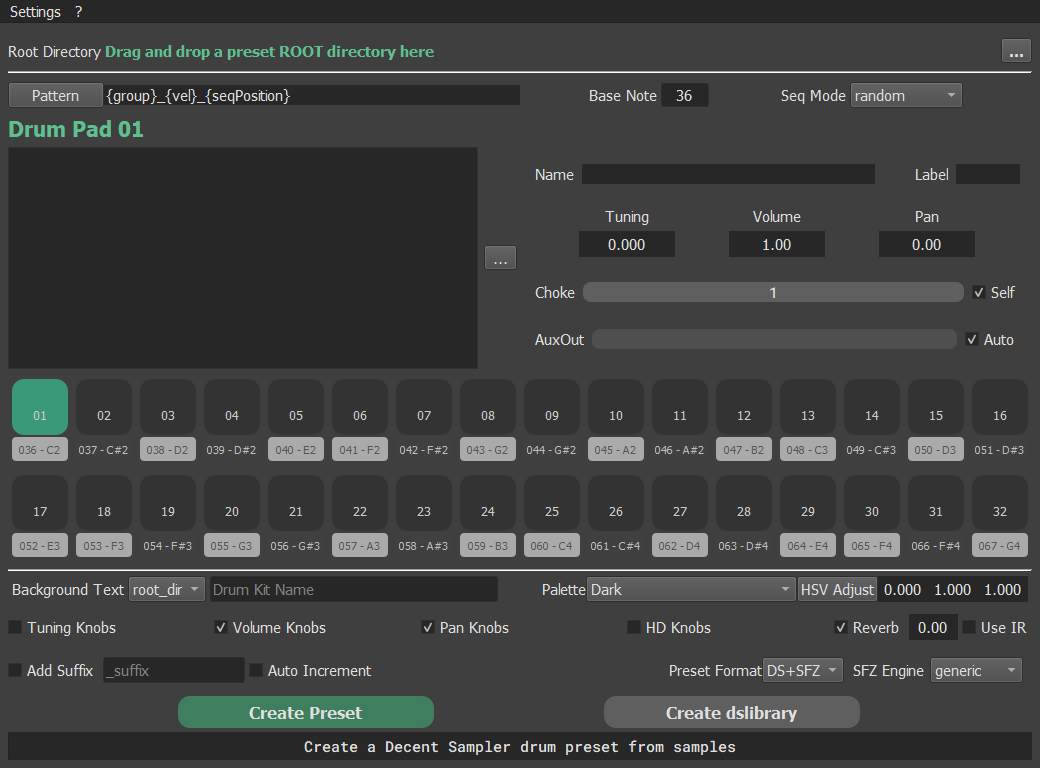
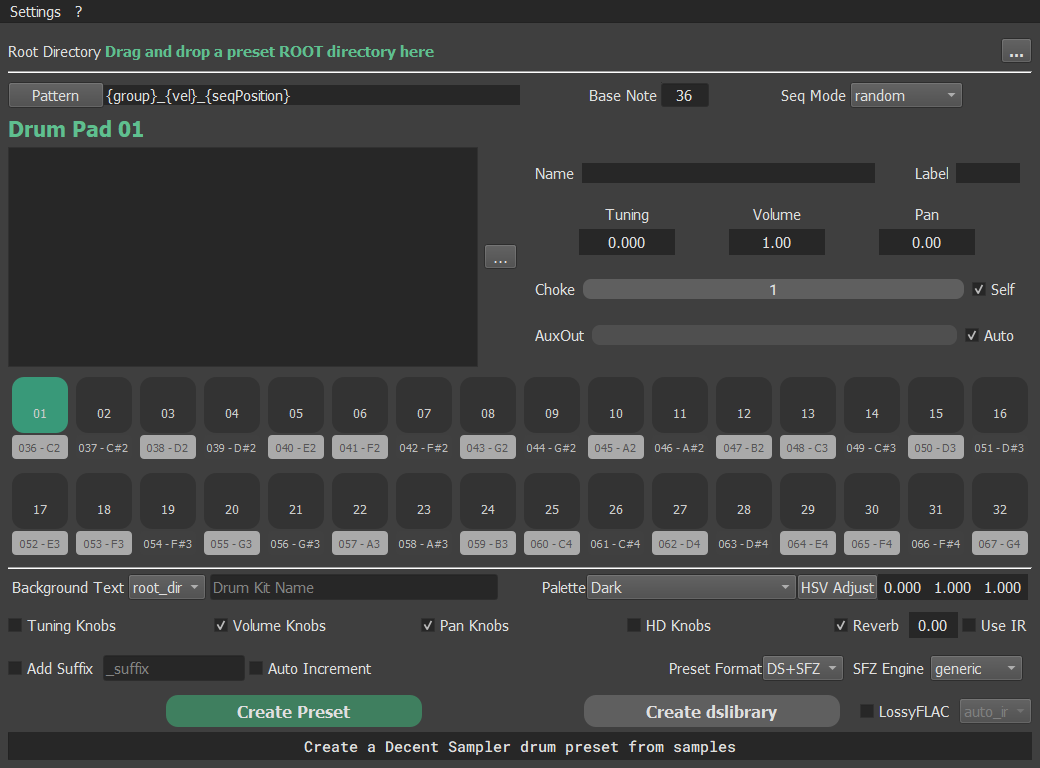
- Updated screen captures - Set lossyFLAC to 'auto_ir' by default

diff --git a/tools/drds_UI.py b/tools/drds_UI.py
@@ -508,6 +508,7 @@ class DrDsUi(QMainWindow):
         self.lossy_flac_mode_cmb = QComboBox(parent=self.cw)
         self.lossy_flac_mode_cmb.setObjectName('lossy_flac_mode_cmb')
         self.lossy_flac_mode_cmb.addItems(['auto', 'auto_ir', '16'])
+        self.lossy_flac_mode_cmb.setCurrentIndex(1)
         self.lossy_flac_mode_cmb.setEnabled(False)
         self.lossy_flac_mode_cmb.setSizePolicy(QSizePolicy(QSizePolicy.Fixed, QSizePolicy.Fixed))
         self.lossy_flac_mode_cmb.setToolTip('LossyFLAC mode\n'

diff --git a/tools/UI/smp_to_ds.py b/tools/UI/smp_to_ds.py
@@ -1312,6 +1312,7 @@ class Ui_smp_to_ds_ui(object):
         self.bg_text_cmb.setCurrentIndex(1)
         self.preset_fmt_cmb.setCurrentIndex(2)
         self.use_eg_cmb.setCurrentIndex(2)
+        self.lossy_flac_mode_cmb.setCurrentIndex(1)
         QtCore.QMetaObject.connectSlotsByName(smp_to_ds_ui)
 
     def retranslateUi(self, smp_to_ds_ui):
